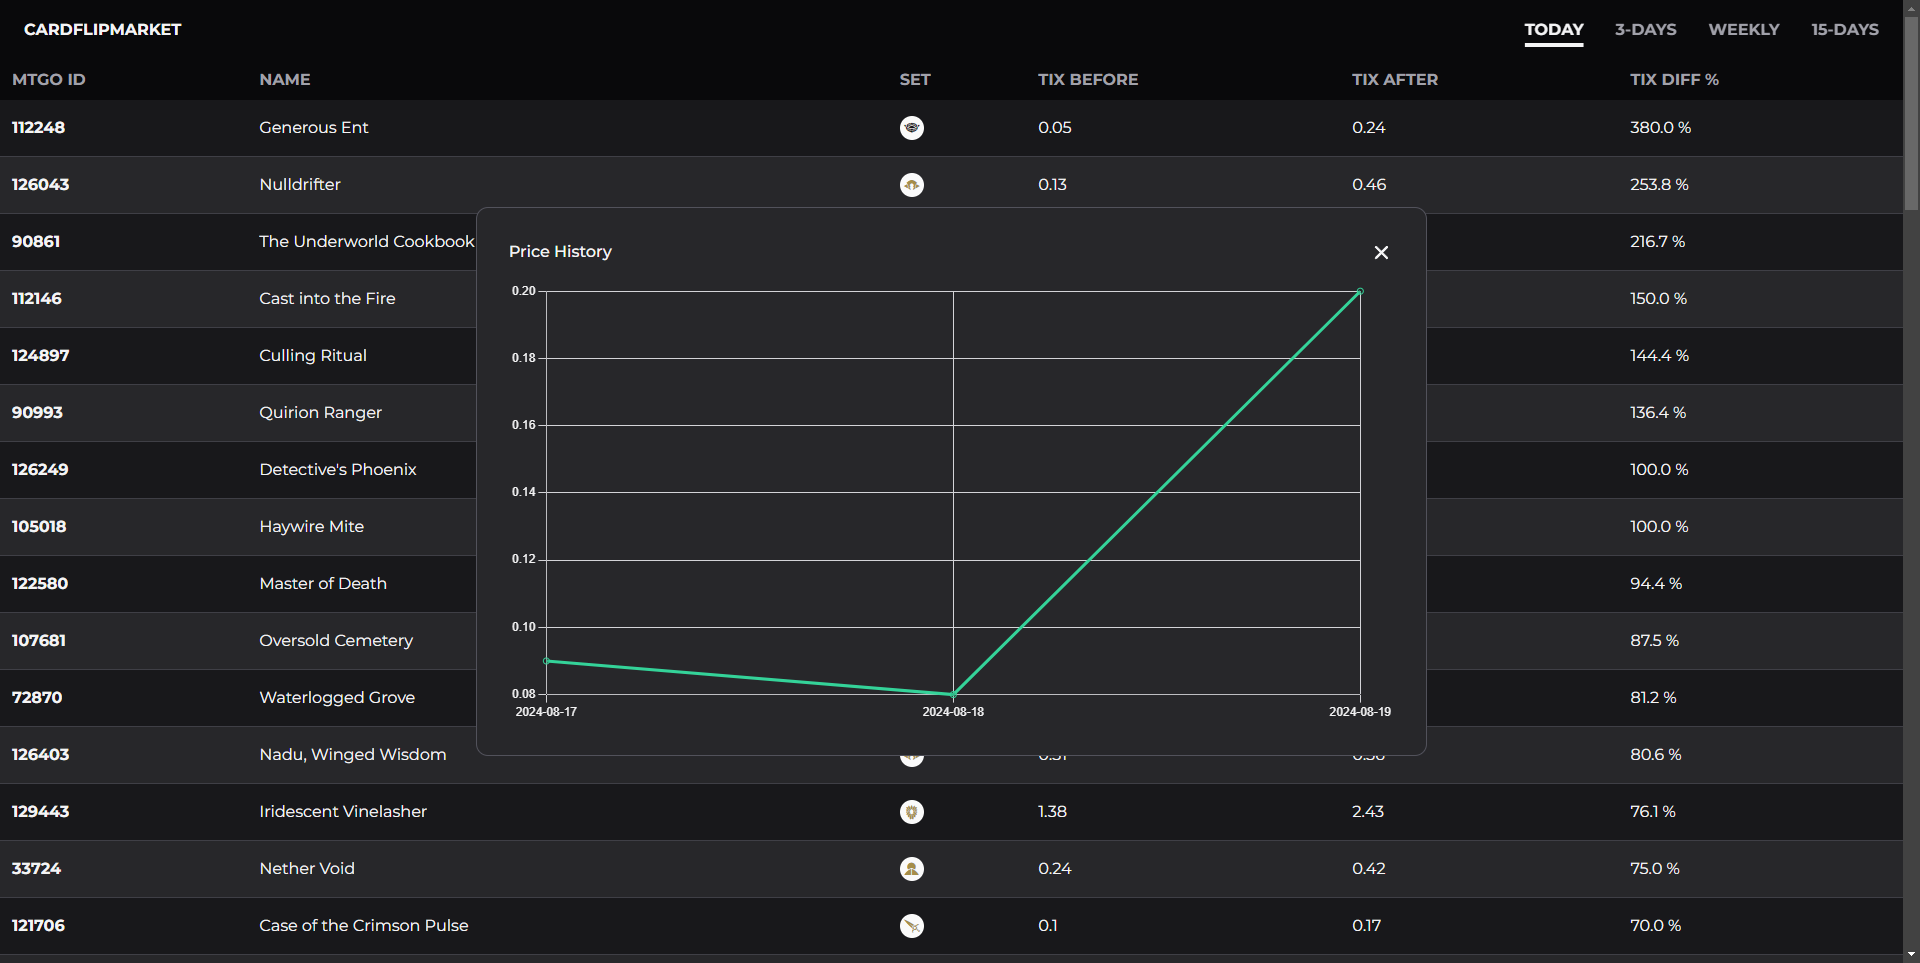
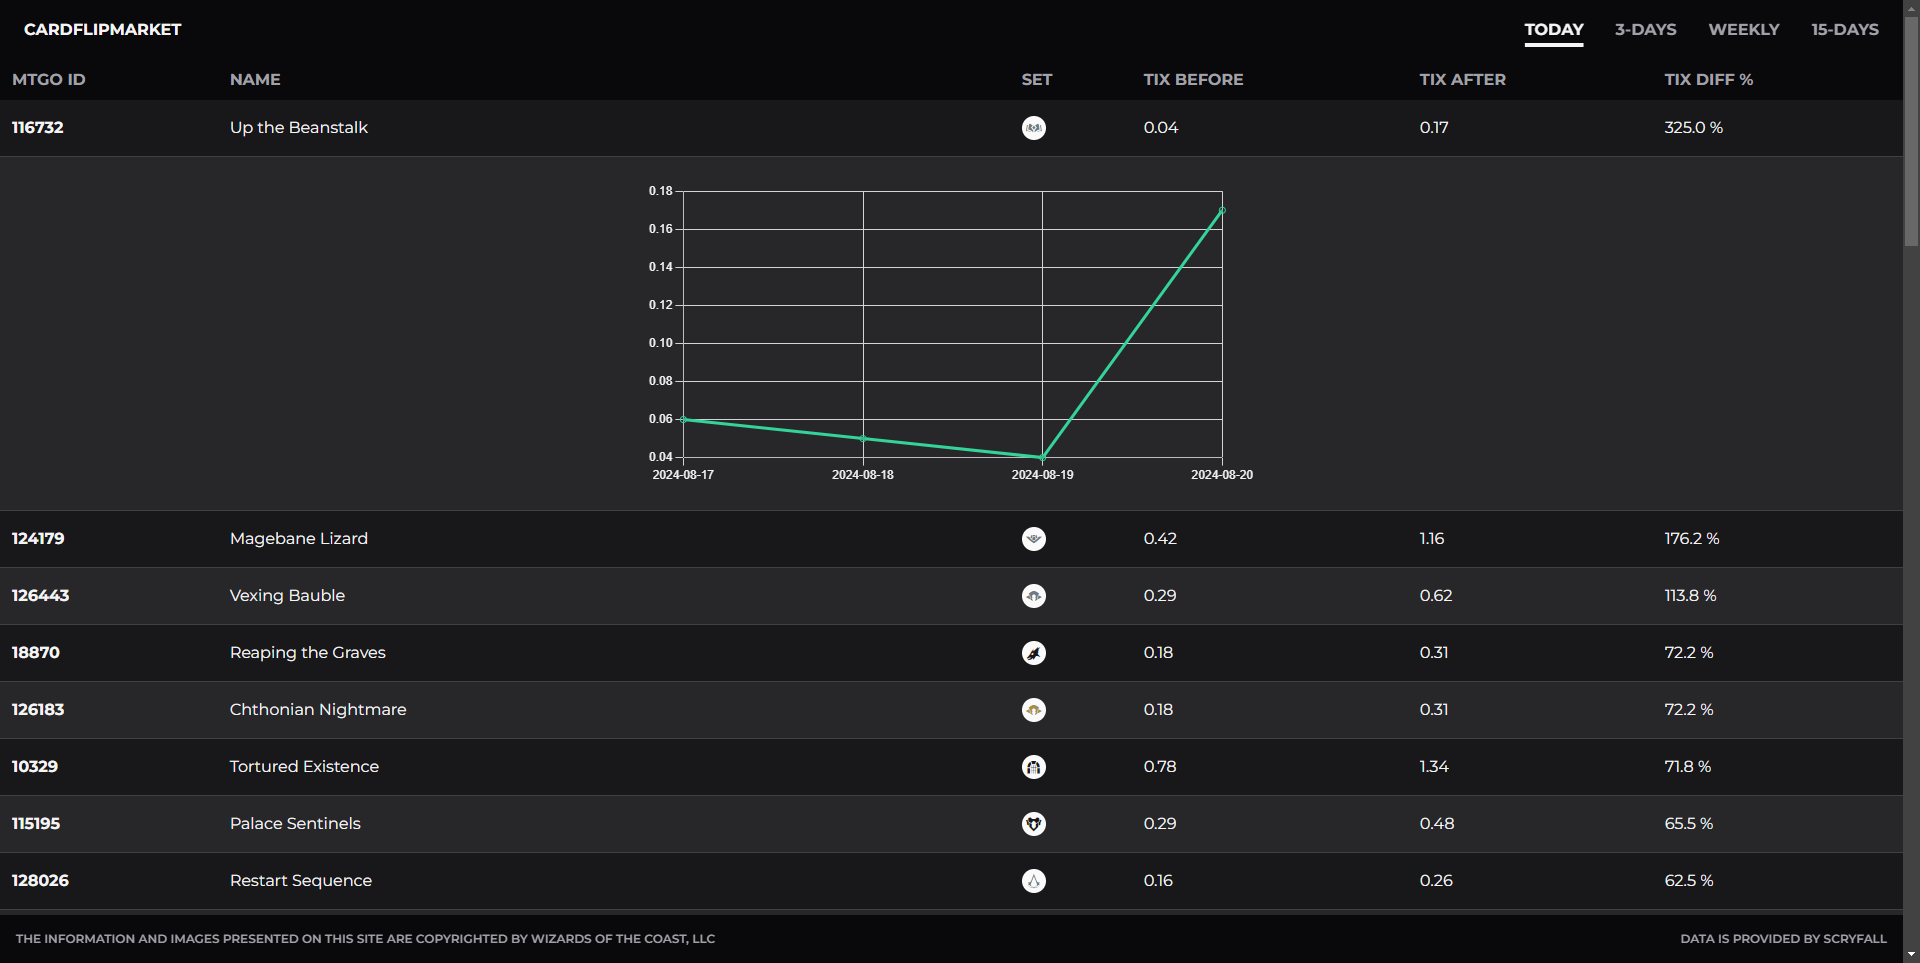
chart appears in table row instead of popup

diff --git a/client/src/components/Table.js b/client/src/components/Table.js
@@ -4,7 +4,7 @@ import ChartPopover from './ChartPopover';
 function Table({ data }) {
     const [sortConfig, setSortConfig] = useState({ key: 'percentage_difference', direction: 'desc' });
     const [hoveredCard, setHoveredCard] = useState(null);
-    const [selectedCardId, setSelectedCardId] = useState(null);
+    const [expandedCardId, setExpandedCardId] = useState(null);
 
     const handleSort = (key) => {
         let direction = 'desc';
@@ -25,13 +25,13 @@ function Table({ data }) {
             return 0;
         });
 
-    const handleChartClick = (mtgo_id) => {
-        setSelectedCardId(selectedCardId === mtgo_id ? null : mtgo_id);
+    const toggleExpandRow = (mtgo_id) => {
+        setExpandedCardId(expandedCardId === mtgo_id ? null : mtgo_id);
     };
 
     return (
         <div className="relative overflow-x-auto">
-            <table className="text-xs lg:text-base w-full text-left rtl:text-right text-zinc-200 md:mb-80 sm:mb-36">
+            <table className="text-xs lg:text-sm w-full text-left rtl:text-right text-zinc-200 md:mb-80 sm:mb-36">
                 <thead className="text-zinc-400 text-md uppercase cursor-pointer bg-zinc-950">
                     <tr>
                         <th scope="col" className="lg:block hidden px-3 py-2 hover:text-zinc-100" onClick={() => handleSort('mtgo_id')}>
@@ -60,50 +60,60 @@ function Table({ data }) {
                 </thead>
                 <tbody>
                     {sortedData && sortedData.map((card) => (
-                        <tr key={card._id} className="odd:bg-zinc-900 even:bg-zinc-800 border-b border-zinc-700 text-zinc-100">
-                            <th 
-                                scope="row" 
-                                className="lg:block hidden px-3 py-4 whitespace-nowrap"
+                        <React.Fragment key={card._id}>
+                            <tr 
+                                className="odd:bg-zinc-900 even:bg-zinc-800 border-b border-zinc-700 text-zinc-100"
                             >
-                                {card.mtgo_id}
-                            </th>
-                            <td className="px-3 py-4 relative">
-                                <a className='hover:underline cursor-pointer' href={card.cardmarket} rel="noreferrer" target='_blank'
-                                onMouseEnter={() => setHoveredCard(card)}
-                                onMouseLeave={() => setHoveredCard(null)}>
-                                    {card.name}
-                                </a>
-                                {hoveredCard === card && (
-                                    <div className="absolute lg:top-4 lg:right-24 md:rounded-xl rounded-lg bg-zinc-600 p-2 lg:w-1/3 md:w-7/12 sm:w-2/3 z-10">
-                                        <img src={card.image} alt={card.name} className="md:rounded-xl rounded-lg w-full h-auto" />
-                                    </div>
-                                )}
-                            </td>
-                            <td className="px-3 py-4">
-                                {<i title={`${card.set.toUpperCase()}`} alt={`${card.set.toUpperCase()}`} className={`w-6 h-6 items-center flex justify-center icon-container bg-zinc-50 rounded-full ss ss-${card.set} ss-${card.rarity}`}></i>}
-                            </td>
-                            <td className="px-3 py-4">
-                                {card.before_tix}
-                            </td>
-                            <td className="px-3 py-4">
-                                {card.after_tix}
-                            </td>
-                            <td 
-                                className="px-3 py-4 cursor-pointer hover:underline"
-                                onClick={() => handleChartClick(card.mtgo_id)}
-                            >
-                                {card.percentage_difference.toFixed(1)} %
-                            </td>
-                        </tr>
+                                <th 
+                                    scope="row" 
+                                    className="lg:block hidden px-3 py-4 whitespace-nowrap"
+                                >
+                                    {card.mtgo_id}
+                                </th>
+                                <td className="px-3 py-4 relative">
+                                    <a 
+                                        className='hover:underline cursor-pointer' 
+                                        href={card.cardmarket} 
+                                        rel="noreferrer" 
+                                        target='_blank'
+                                        onMouseEnter={() => setHoveredCard(card)}
+                                        onMouseLeave={() => setHoveredCard(null)}
+                                    >
+                                        {card.name}
+                                    </a>
+                                    {hoveredCard === card && (
+                                        <div className="absolute lg:top-4 lg:right-24 md:rounded-xl rounded-lg bg-zinc-600 p-2 lg:w-1/3 md:w-7/12 sm:w-2/3 z-10">
+                                            <img src={card.image} alt={card.name} className="md:rounded-xl rounded-lg w-full h-auto" />
+                                        </div>
+                                    )}
+                                </td>
+                                <td className="px-3 py-4">
+                                    {<i title={`${card.set.toUpperCase()}`} alt={`${card.set.toUpperCase()}`} className={`w-6 h-6 items-center flex justify-center icon-container bg-zinc-50 rounded-full ss ss-${card.set} ss-${card.rarity}`}></i>}
+                                </td>
+                                <td className="px-3 py-4 cursor-pointer"
+                                onClick={() => toggleExpandRow(card.mtgo_id)}>
+                                    {card.before_tix}
+                                </td>
+                                <td className="px-3 py-4 cursor-pointer"
+                                onClick={() => toggleExpandRow(card.mtgo_id)}>
+                                    {card.after_tix}
+                                </td>
+                                <td className="px-3 py-4 cursor-pointer"
+                                onClick={() => toggleExpandRow(card.mtgo_id)}>
+                                    {card.percentage_difference.toFixed(1)} %
+                                </td>
+                            </tr>
+                            {expandedCardId === card.mtgo_id && (
+                                <tr className="odd:bg-zinc-900 even:bg-zinc-800 border-b border-zinc-700" >
+                                    <td colSpan="6" className="px-3 p-4">
+                                        <ChartPopover mtgo_id={card.mtgo_id} />
+                                    </td>
+                                </tr>
+                            )}
+                        </React.Fragment>
                     ))}
                 </tbody>
             </table>
-            
-            {selectedCardId && (
-                <div className="absolute top-16 left-0 z-20">
-                    <ChartPopover mtgo_id={selectedCardId} onClose={() => setSelectedCardId(null)} />
-                </div>
-            )}
         </div>
     );
 }

diff --git a/client/src/components/ChartPopover.js b/client/src/components/ChartPopover.js
@@ -2,17 +2,18 @@ import React, { useState, useEffect } from 'react';
 import axios from 'axios';
 import { Line } from 'react-chartjs-2';
 import { Chart, CategoryScale, LinearScale, LineElement, PointElement, Title, Tooltip, Legend } from 'chart.js';
-import { IoClose } from "react-icons/io5";
 
 Chart.register(CategoryScale, LinearScale, LineElement, PointElement, Title, Tooltip, Legend);
 
-function ChartPopover({ mtgo_id, onClose }) {
+function ChartPopover({ mtgo_id }) {
     const [priceHistory, setPriceHistory] = useState(null);
+    const [loading, setLoading] = useState(true); 
 
     useEffect(() => {
         const fetchPriceHistory = async () => {
             try {
                 const response = await axios.get(`/api/scryfall/${mtgo_id}`);
+                setLoading(false);
                 setPriceHistory(response.data);
             } catch (error) {
                 console.error('Error fetching price history:', error);
@@ -61,18 +62,13 @@ function ChartPopover({ mtgo_id, onClose }) {
     };
 
     return (
-        <div className="fixed inset-0 flex items-center justify-center">
-            <div className="relative bg-zinc-800 border border-zinc-600 rounded-xl md:w-1/2 w-fit p-8 text-zinc-100">
-            <div className='flex mb-4 font-medium justify-between'>
-                <p>Price History</p>
-                <button onClick={onClose}><IoClose size={25} /></button></div>
-                {chartData ? (
+            <div className="flex items-center md:min-h-80 min-h-48 justify-center md:w-1/3 w-fit p-2 text-zinc-100 mx-auto">
+                {loading ? <p>Loading...</p> : ( chartData ?
                     <Line data={chartData} options={chartOptions} />
-                ) : (
-                    <p>Loading...</p>
+                :
+                    <p>No price history data found.</p>
                 )}
             </div>
-        </div>
     );
 }
 

diff --git a/client/src/components/Header.js b/client/src/components/Header.js
@@ -9,7 +9,7 @@ function Header({ onFetchData }) {
   };
 
   return (
-    <header className='sticky top-0 z-10 lg:text-base text-sm'>
+    <header className='sticky top-0 z-10 lg:text-base text-sm overflow-x-hidden'>
       <nav className="border-zinc-200 px-4 lg:px-6 py-2.5 bg-zinc-950 text-zinc-300">
         <div className="flex lg:flex-row flex-col flex-wrap justify-between items-center" >
           <div className='flex lg:flex-row lg:space-x-8 my-2 text-base font-bold'>

diff --git a/client/src/App.js b/client/src/App.js
@@ -27,7 +27,7 @@ function App() {
   }, []);
 
   return (
-    <div className='overflow-x-hidden bg-zinc-900 flex flex-col min-h-screen'>
+    <div className='bg-zinc-900 flex flex-col min-h-screen'>
       <Header onFetchData={fetchData} />
       {loading ? (
         <div className='text-zinc-100 flex justify-center lg:text-base text-sm mt-10'>Loading...</div>  // Loading state indicator

diff --git a/README.md b/README.md
@@ -7,7 +7,7 @@ New price history data is automatically fetched from [Scryfall API](https://scry
 
 Users can take advantage of this information, by anticipating similar price spikes in the real world and make data-driven decisions on whether to invest in the cards of the corresponding tabletop game.
 
-The website is currently [live](https://cardflipmarket-manosmin.onrender.com/) on render.com, if anyone wants to give it a quick look instead of deploying it locally. 
+CardFlipMarket is currently [live](https://cardflipmarket-manosmin.onrender.com/) on Render for anyone who wants to give it a quick look, instead of deploying it locally. 
 
 
 
